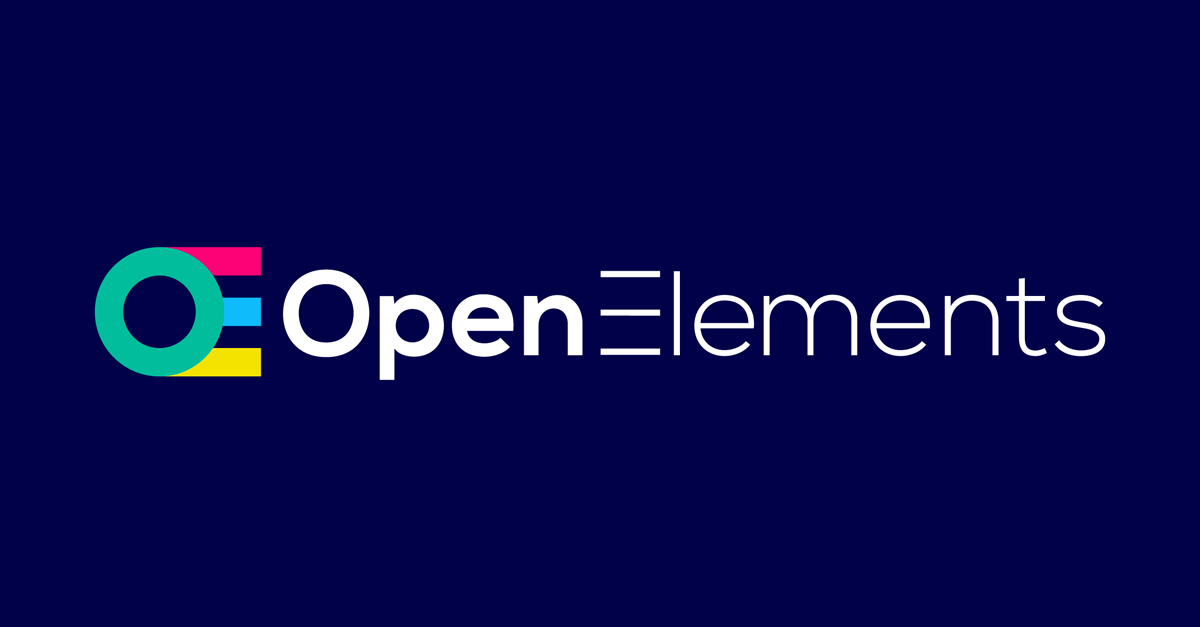
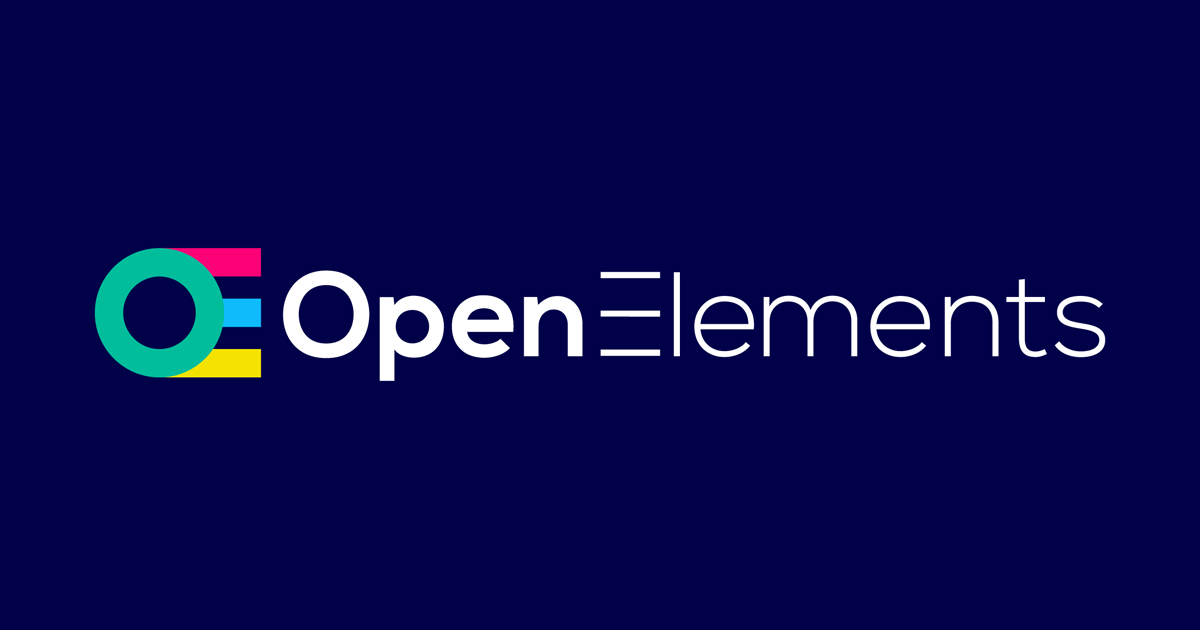
og:image:width and og:image:height

diff --git a/layouts/partials/head-meta.html b/layouts/partials/head-meta.html
@@ -1,8 +1,8 @@
 <meta property="og:type" content="website" />
 <meta property="og:url" content='{{ .Site.BaseURL }}{{ trim .Page.RelPermalink "/"}}' />
 <meta property="og:image" content='{{ .Site.BaseURL }}images/open-graph/open-elements.png' />
-<meta property="og:image:width" content='1200' />
-<meta property="og:image:height" content='627' />
+<meta property="og:image:width" content="1200" />
+<meta property="og:image:height" content="630" />
 
 {{ if .Page.Params.title }}
     <meta property="og:title" content='{{ .Site.Title }} - {{ .Page.Params.title }}' />
